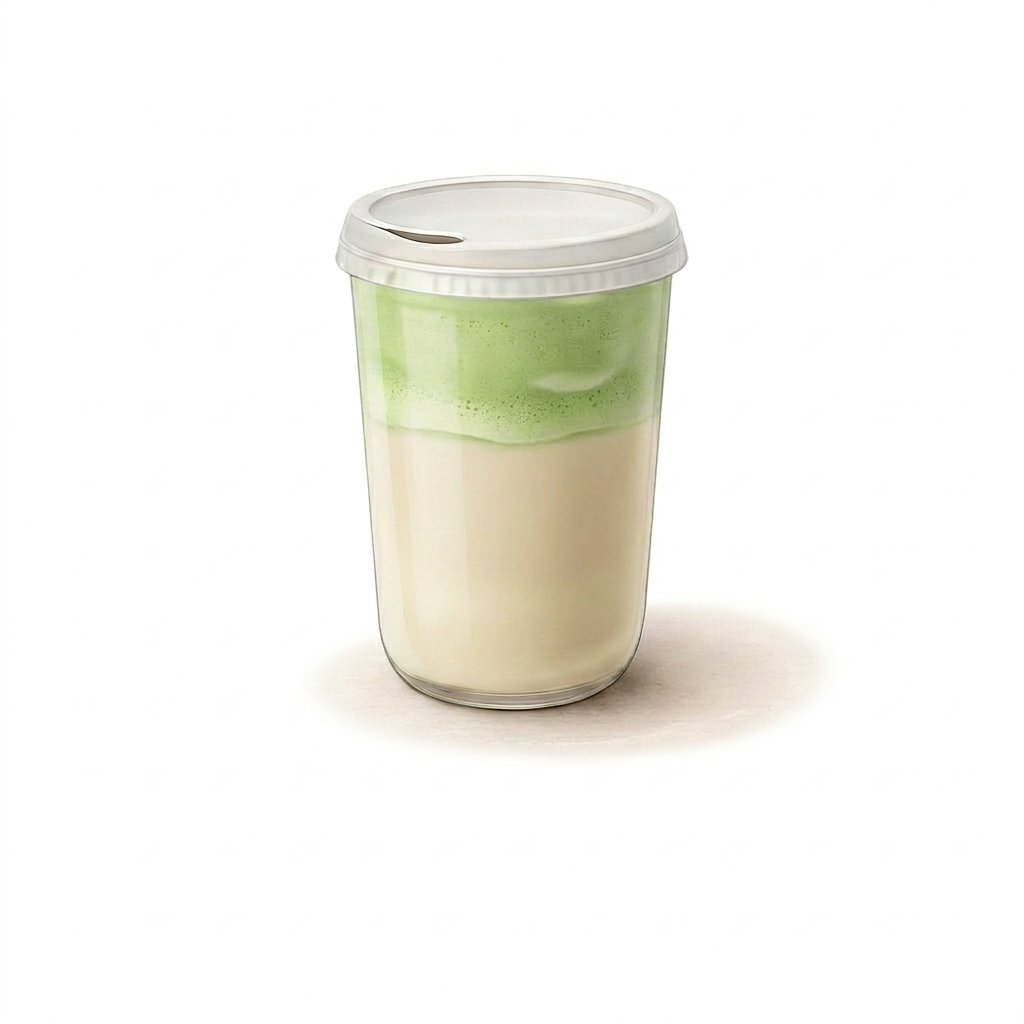
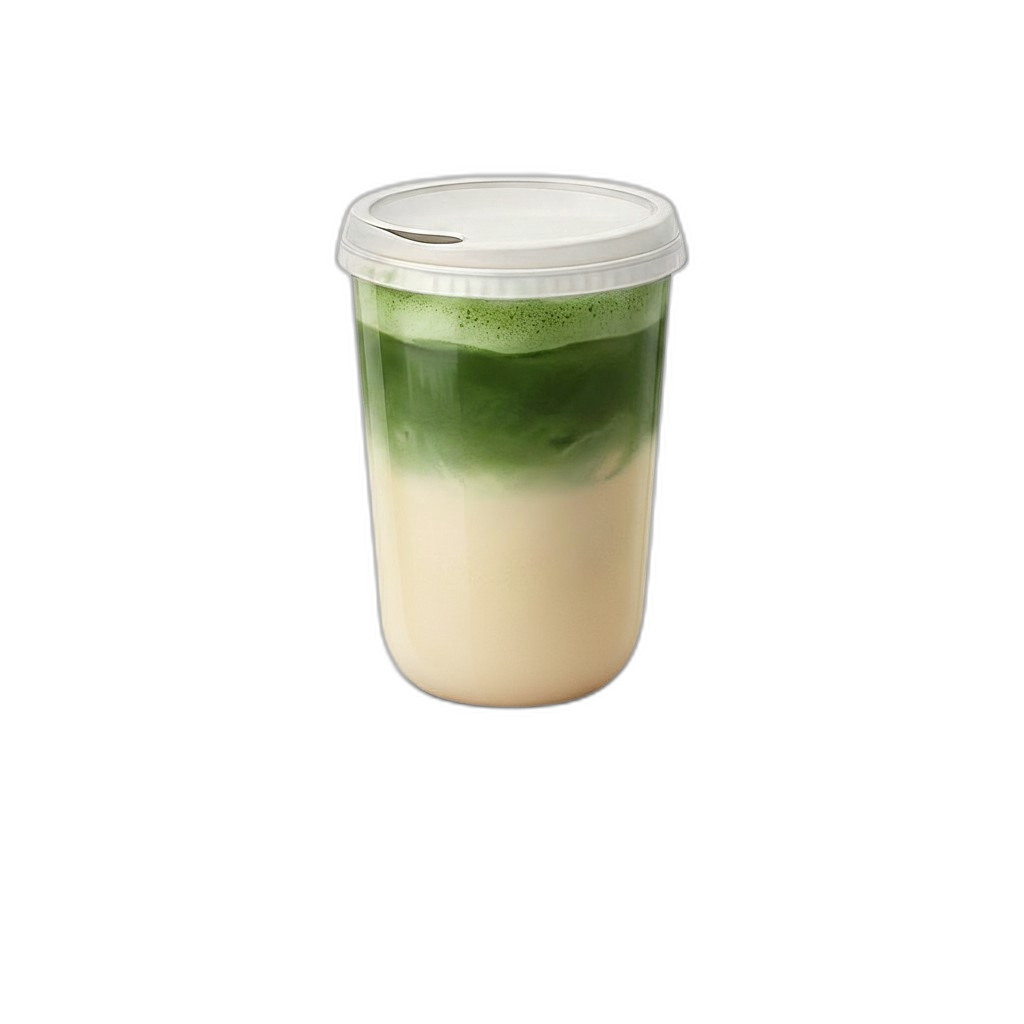
Jasmine Matcha: new name, description, transparent product photo; no multiply on alpha PNGs
Made-with: Cursor

Changed region(s): [[0.3125, 0.25, 0.8125, 0.75], [0.375, 0.1562, 0.625, 0.1875], [0.3125, 0.2188, 0.3438, 0.25]]

diff --git a/app.js b/app.js
@@ -4,7 +4,7 @@ const DRINKS = {
     { id: 'ein', name: 'Signature Einspanner', desc: 'Matcha with pillowy cream top', emoji: '🍵', seasonal: false },
     { id: 'reg', name: 'Regular Matcha Latte', desc: 'Classic matcha with your choice of milk', emoji: '🍵', seasonal: false },
     { id: 'str', name: 'Strawberry Matcha', desc: 'Matcha layered with fresh strawberry', emoji: '🍓', seasonal: false },
-    { id: 'jas', name: 'Jasmine Tea Matcha Cloud', desc: 'Jasmine milk tea with matcha cloud', emoji: '🌸', seasonal: false },
+    { id: 'jas', name: 'Jasmine Matcha', desc: 'Matcha latte infused with jasmine tea', emoji: '🌸', seasonal: false },
     { id: 'pan', name: 'Pandan Matcha', desc: 'Pandan infused matcha latte', emoji: '🌿', seasonal: false },
     { id: 'coc', name: 'Coconut Cloud', desc: 'Coconut water with matcha cream top', emoji: '🥥', seasonal: false },
     { id: 'map', name: 'Maple Matcha', desc: 'Matcha with pure maple syrup', emoji: '🍁', seasonal: false },
@@ -83,10 +83,13 @@ const CUSTOM_IMAGES = {
   man: './mango_matcha.jpg'
 };
 
+/** Product photos with alpha — skip multiply so they match the page like other cutouts */
+const CUSTOM_IMG_NO_MULTIPLY = new Set(['jas', 'map']);
 
 function getSVG(id, large) {
   if (CUSTOM_IMAGES[id]) {
-    return `<img src="${CUSTOM_IMAGES[id]}" style="width:${large ? 100 : 72}px;height:${large ? 120 : 86}px;object-fit:contain; transform: scale(1.75); mix-blend-mode: multiply;" alt="Drink">`;
+    const blend = CUSTOM_IMG_NO_MULTIPLY.has(id) ? '' : ' mix-blend-mode: multiply;';
+    return `<img src="${CUSTOM_IMAGES[id]}" style="width:${large ? 100 : 72}px;height:${large ? 120 : 86}px;object-fit:contain; transform: scale(1.75);${blend}" alt="Drink">`;
   }
   const svg = (typeof DRINK_SVGS !== 'undefined' && DRINK_SVGS[id]) || '';
   if (!svg) return `<div style="width:${large ? 100 : 72}px;height:${large ? 120 : 86}px;background:rgba(106,148,98,0.1);border-radius:12px;"></div>`;

diff --git a/extract_svgs.js b/extract_svgs.js
@@ -29,7 +29,7 @@ sections.forEach(sec => {
       if (cleanedTitle === 'Signature Einspanner') result['ein'] = svg;
       if (cleanedTitle === 'Regular') result['reg'] = svg;
       if (cleanedTitle === 'Strawberry') result['str'] = svg;
-      if (cleanedTitle === 'Jasmine Tea Matcha Cloud') result['jas'] = svg;
+      if (cleanedTitle === 'Jasmine Matcha' || cleanedTitle === 'Jasmine Tea Matcha Cloud') result['jas'] = svg;
       if (cleanedTitle === 'Pandan') result['pan'] = svg;
       if (cleanedTitle === 'Coconut Cloud') result['coc'] = svg;
       if (cleanedTitle === 'Maple') result['map'] = svg;
